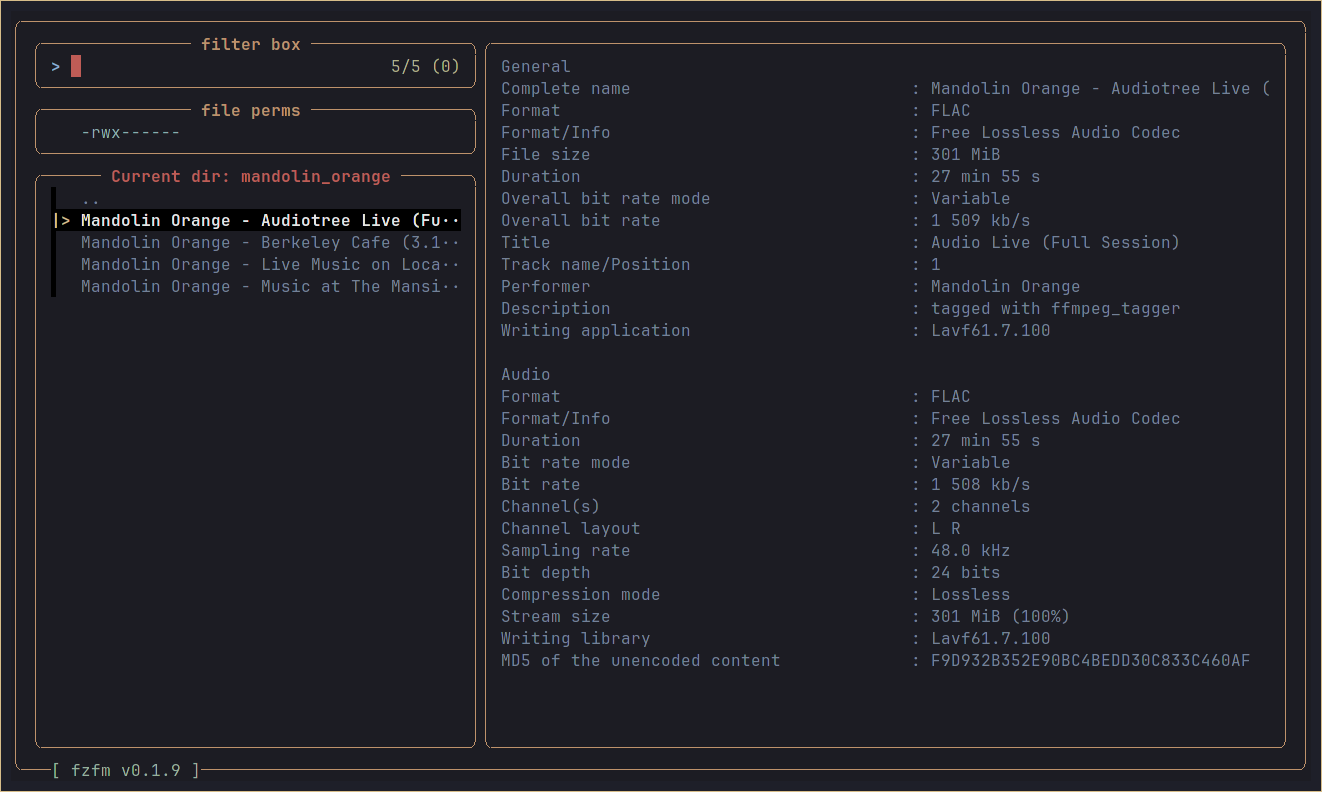
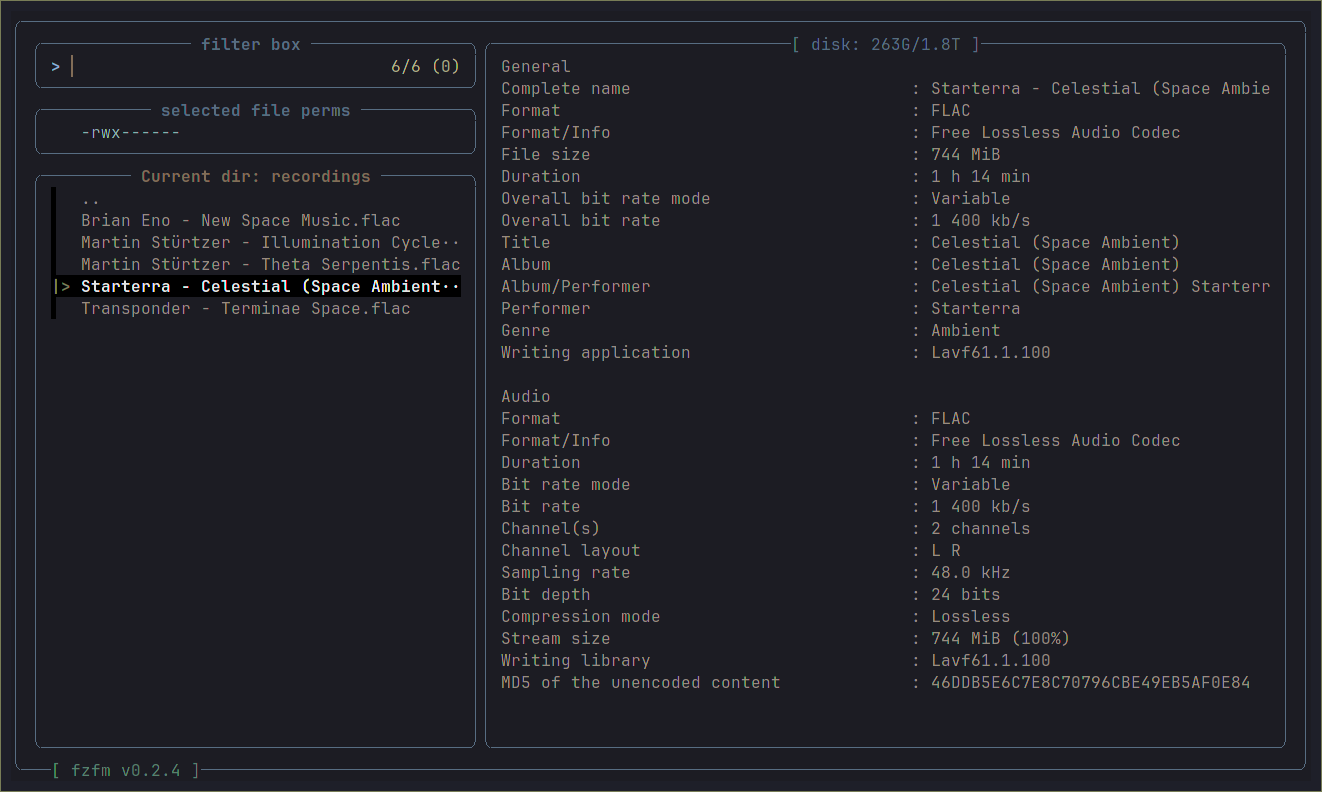
added new screenshots

diff --git a/README.md b/README.md
@@ -12,7 +12,7 @@ A simple customizable fzf file manager for Linux with basic options.
   </tr>
   <tr>
     <td width="50%">
-      <img src="https://github.com/archusXIV/fzfm/blob/main/screenshots/fzfm_v0.1.9.png" />
+      <img src="https://github.com/archusXIV/fzfm/blob/main/screenshots/fzfm_v0.2.4.png" />
     </td>
     <td width="50%">
       <img src="https://github.com/archusXIV/fzfm/blob/main/screenshots/fzfm_image.png" />
